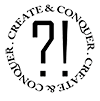
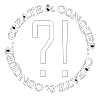
Added a background image.

diff --git a/August Raw/css/Styles.css b/August Raw/css/Styles.css
@@ -161,16 +161,19 @@ div.zoomwall {
 span.symbol {
 	font-family: Agency_FB;
 	font-size: 1.1em;
+	color: white;
 }
 span.raw {
 	font-family: norml-font;
 	font-size: 1.2em;
 	letter-spacing: 4px;
+	color: white;
 }
 span.august {
 	font-family: norml-font;
 	font-size: 1.2em;
 	letter-spacing: 4px;
+	color: white;
 }
 div#header a {
 	position: relative;
@@ -210,10 +213,13 @@ img#header {
 	border: 1px solid #021a40;
 }
 div.content {
-	width: 800px;
+	width: 790px;
 	margin: 0 auto;
 	font-family: custom;
-	color: #999;
+	color: white;
+	background-color: black;
+	border-radius: 0px 0px 10px 10px;
+	padding: 5px;
 	font-size: 1em;
 	text-align: left;
 }
@@ -224,7 +230,7 @@ div.content {
 	-webkit-tap-highlight-color: transparent;/* For some Androids */
 }
 .top-animate {
-	background: black !important;
+	background: white !important;
 	top: 13px !important;
 	-webkit-transform: rotate(45deg);
 	transform: rotate(45deg);
@@ -233,7 +239,7 @@ div.content {
 	opacity: 0;
 }
 .bottom-animate {
-	background: black !important;
+	background: white !important;
 	top: 13px !important;
 	-webkit-transform: rotate(-225deg);
 	transform: rotate(-225deg);
@@ -243,24 +249,24 @@ div.content {
 	width: 25px;
 	height: 2px;
 	border-radius: 10px;
-	background-color: #F9A530;
+	background-color: white;
 }
 .mid-menu {
 	top: 13px;
 	width: 25px;
 	height: 2px;
 	border-radius: 10px;
-	background-color: #F9A530;
+	background-color: white;
 }
 .bottom-menu {
 	top: 21px;
 	width: 25px;
 	height: 2px;
 	border-radius: 10px;
-	background-color: #F9A530;
+	background-color: white;
 }
 .menui {
-	background: black;
+	background: white;
 	transition: 0.6s ease;
 	transition-timing-function: cubic-bezier(.75, 0, .29, 1.01);
 	margin-top: 10px;
@@ -276,7 +282,7 @@ div.content {
 	margin: 0px;
 	top: 150;
 	left: 50px;
-	color: black !important;
+	color: white !important;
 }
 .mobilenav {
 	font-family: inherit;
@@ -319,12 +325,20 @@ div.zoomwall {
 }
 p.help {
 	text-align: center;
-	color: darkgrey;
-	margin: 0 !important;padding: 0 !importantl
+	color: lightgrey;
+	margin: 0 !important;padding: 0 !important;
 }
 footer {
 	margin: 50px;
 }
 body {
-	background-color: #F5F5F5 !important;
+	width: 100%;
+	height: 100%;
+
+	background-image: url(../background.jpg) !important;
+	background-position: center !important;
+	-webkit-background-size: cover !important;
+  	-moz-background-size: cover !important;
+  	-o-background-size: cover !important;
+  	background-size: cover !important;
 }

diff --git a/August Raw/css/component.css b/August Raw/css/component.css
@@ -9,7 +9,7 @@
 	padding: 20px 0;
 	margin: 0 auto;
 	text-align: center;
-	width: 90%;
+	width: 60%;
 
 }
 .og-grid li {
